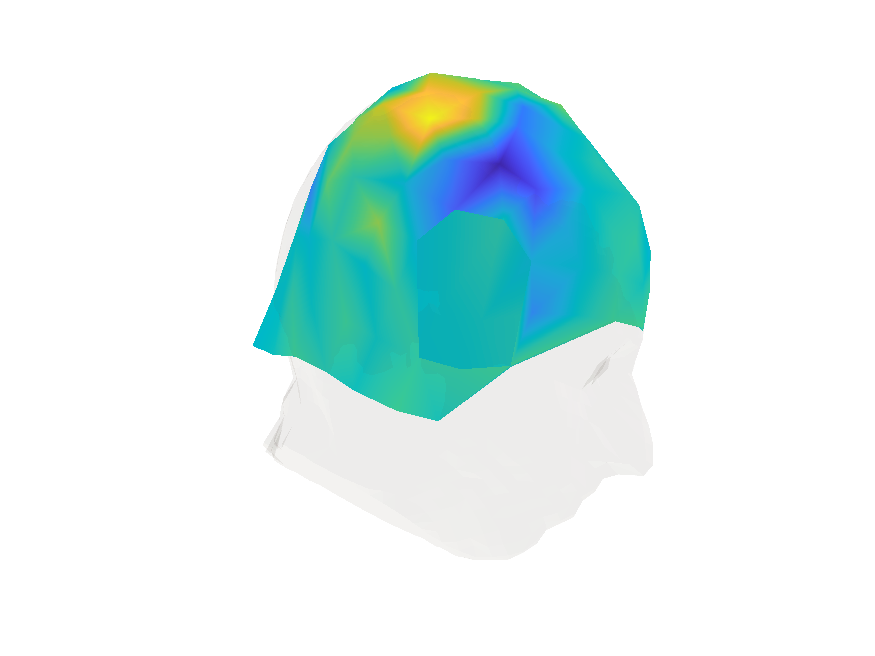
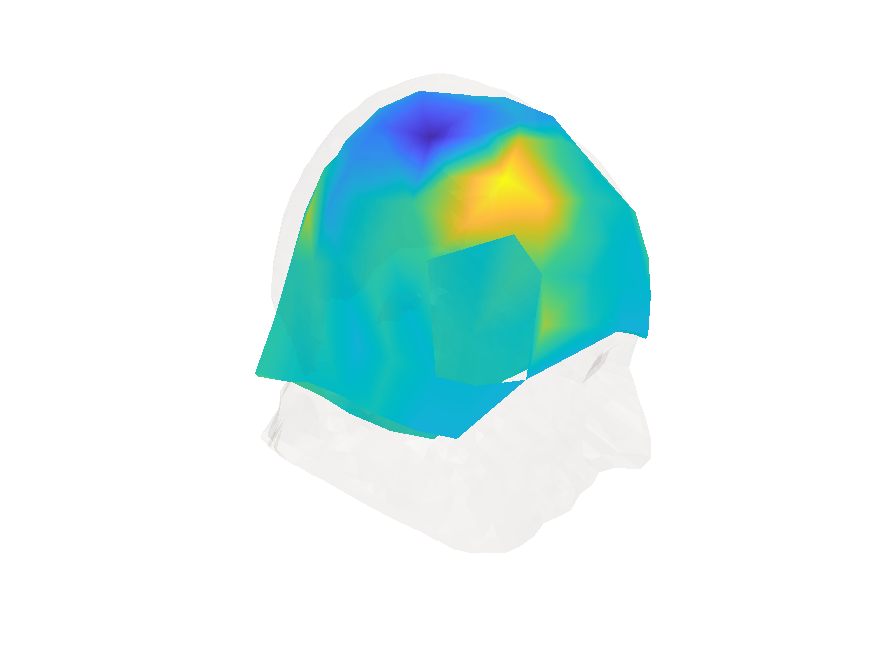
updated figure and minor update functional code

Changed region(s): [[0.2777, 0.0923, 0.7406, 0.6769]]

diff --git a/workshop/cuttingeegx/squids_vs_opms.md b/workshop/cuttingeegx/squids_vs_opms.md
@@ -482,7 +482,7 @@ ft_plot_mesh(mesh_brain, 'facecolor', 'brain', 'edgecolor', 'none');
 hold on
 ft_plot_topo3d(pos275, selected_avg, 'facealpha', 0.9)
 camlight
-view([360 0])
+view([90 0])
 
 print -dpng cuttingeegx_topo3d_squid.png
 ```
@@ -724,11 +724,7 @@ load mesh_scalp mesh_scalp % from the SQUID analysis
 load fieldlinebeta2_head fieldlinebeta2_head
 load append_opm append_opm
 
-% find the indices of append_opm.label that match the ones in fieldlinebeta2_head.label
-i_avg = ismember(append_opm.label, fieldlinebeta2_head.label);
-
-% 'R603_bz', 'R105_bz' were duplicate sensors, so they need to be omitted
-i_sens = ~ismember(fieldlinebeta2_head.label, {'R603_bz', 'R105_bz'}); 
+[i_avg, i_sens] = match_str(append_opm.label, fieldlinebeta2_head.label);
 
 % average the activity of interest in the time window [0.035 0.050] sec
 sampling_rate = 5000; % in Hz
@@ -745,7 +741,7 @@ ft_plot_mesh(mesh_scalp, 'facealpha', 0.05, 'facecolor', 'skin', 'edgecolor', 'n
 hold on
 ft_plot_topo3d(fieldlinebeta2_head.chanpos(i_sens,:), selected_avg(i_avg), 'facealpha', 1)
 camlight
-view([360 0])
+view([90 0])
 
 print -dpng cuttingeegx_topo3d_no-interp_opm.png
 ```
